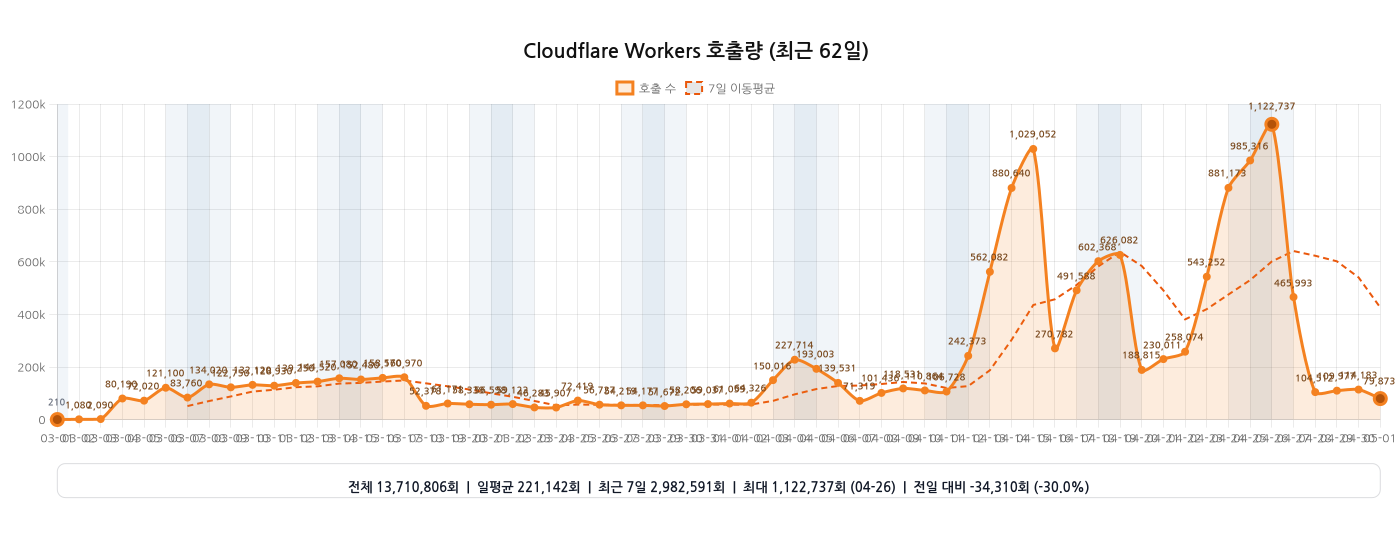
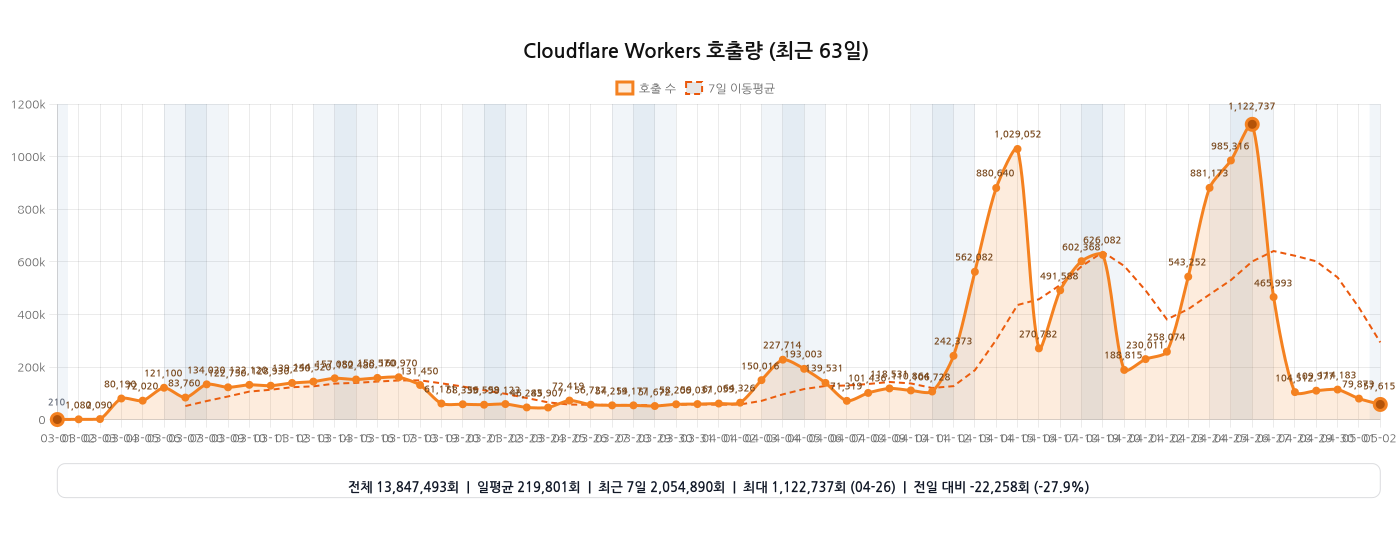
chore: 워커 호출량 그래프 자동 갱신

diff --git a/README.md b/README.md
@@ -18,11 +18,11 @@
 [![Coverage](https://github.com/hmmhmmhm/daiso-mcp/actions/workflows/coverage.yml/badge.svg?branch=main)](https://github.com/hmmhmmhm/daiso-mcp/actions/workflows/coverage.yml)
 
 <!-- WORKERS_INVOCATIONS_CHART:START -->
-<h3>Cloudflare Workers 호출량 (2026-03-01 ~ 2026-05-01, 62일)</h3>
+<h3>Cloudflare Workers 호출량 (2026-03-01 ~ 2026-05-02, 63일)</h3>
 
-<img src="./assets/analytics/workers-invocations.png?v=2026-05-01T15:42:45.262Z" alt="Cloudflare Workers 호출량 그래프 (2026-03-01 ~ 2026-05-01)" width="100%">
+<img src="./assets/analytics/workers-invocations.png?v=2026-05-02T15:37:12.676Z" alt="Cloudflare Workers 호출량 그래프 (2026-03-01 ~ 2026-05-02)" width="100%">
 
-<sub>기준 워커: <code>daiso-mcp</code> · 마지막 갱신: 2026-05-02 00:42 KST</sub>
+<sub>기준 워커: <code>daiso-mcp</code> · 마지막 갱신: 2026-05-03 00:37 KST</sub>
 
 <!-- WORKERS_INVOCATIONS_CHART:END -->
 
